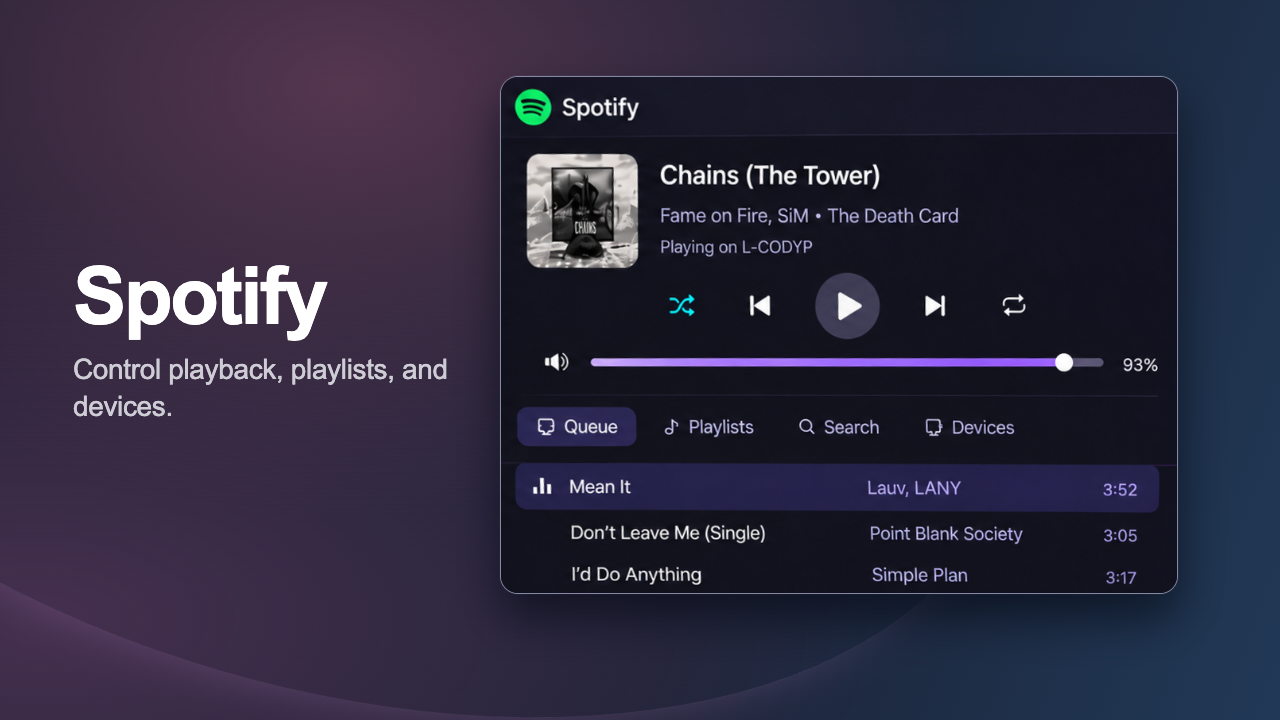
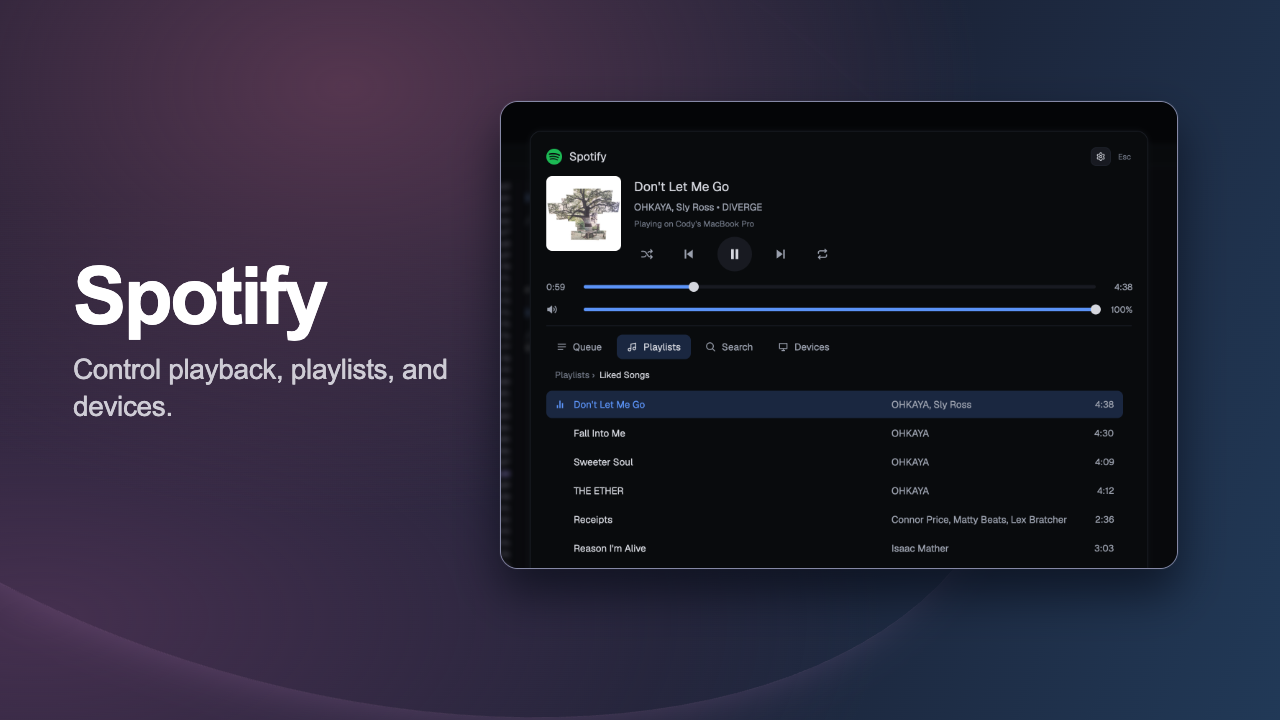
Use supplied Spotify screenshot with blurred surroundings

Changed region(s): [[0.375, 0.0917, 0.9375, 0.825], [0.8125, 0.7639, 0.9375, 0.825]]

diff --git a/gallery/INVENTORY.md b/gallery/INVENTORY.md
@@ -10,7 +10,7 @@ The supplied approved reference is preserved as `reference.jpg`. Branch and Git 
 | Islands | `islands/preview.png` | UI crop from the old preview, showing cards and code |
 | Tourist | `tourist/preview.png` | UI crop from the old preview, showing review scope and depth |
 | Zen | `zen/preview.png`, `zen/thumbnail-v6.png` | UI crop from the old Zen thumbnail, showing the focused editor |
-| Spotify | `spotify/preview.png`, `spotify/thumbnail.png` | UI crop from the old preview, showing playback and queue |
+| Spotify | `spotify/preview.png`, `spotify/thumbnail.png` | Supplied Spotify screenshot, showing playback and playlists with surrounding editor blurred |
 | Portal | `portal/preview.png`, `portal/thumbnail.png` | UI crop from the old preview, showing favorite ports and processes |
 | Practice Range | None | Native initial setup |
 | Tutor | None | Native course setup. No course generated. |
@@ -21,7 +21,7 @@ Every updated mod has a matching `preview.png` and `thumbnail.png` at 1280 × 72
 
 This branch is based on main. Tickets is present in the user's work branch, so only its gallery assets are added here. Its implementation stays on that work branch. Existing untracked thumbnail experiments in the original checkout are untouched.
 
-Seven screenshots reuse the UI panels from the old images at commit `90949f0`. Run uses the supplied screenshot with an 8 px background blur and the original dialog pixels preserved. Crop coordinates and blur settings are in `screenshot-crops.json`. Perspective is straightened by resampling the existing pixels. No UI is generated or redrawn. Outer promotional artwork and glowing frames are cropped away. Practice Range, Tutor, and Tickets have no older image in Git history, so their native captures remain unchanged. UI key legends and control icons remain inside the screenshots. No promotional branding, badges, icons, key callouts, or slogans were added.
+Six screenshots reuse the UI panels from the old images at commit `90949f0`. Run and Spotify use the supplied screenshots with an 8 px background blur and the original dialog pixels preserved. Spotify is cropped to playback controls and the first playlist rows for legibility. Crop coordinates and blur settings are in `screenshot-crops.json`. Perspective is straightened by resampling the existing pixels. No UI is generated or redrawn. Outer promotional artwork and glowing frames are cropped away. Practice Range, Tutor, and Tickets have no older image in Git history, so their native captures remain unchanged. UI key legends and control icons remain inside the screenshots. No promotional branding, badges, icons, key callouts, or slogans were added.
 
 The shared composition is in `template.html`. Titles, descriptions, prior assets, and screen states are in `mods.json`. To reproduce with Playwright and Chrome installed:
 
